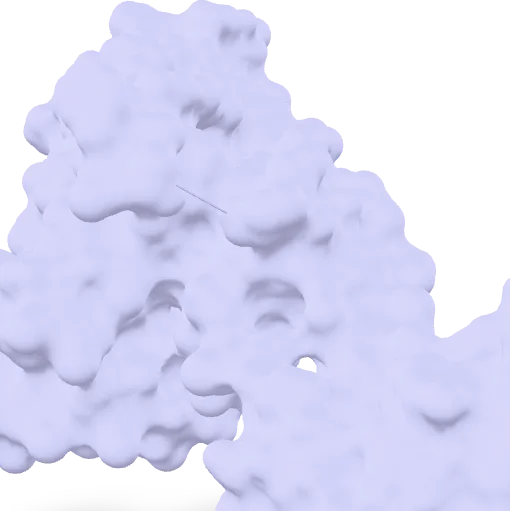
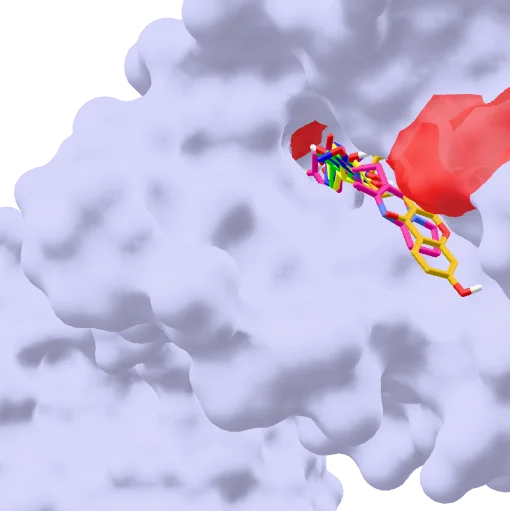
Add files via upload

diff --git a/index.html b/index.html
@@ -9,7 +9,7 @@
   </head>
   <body>
     <!-- <model-viewer> HTML element -->
-    <model-viewer src="ImageToStl.com_dopa.gltf" ar ar-modes="webxr scene-viewer quick-look" camera-controls tone-mapping="neutral" poster="poster.webp" shadow-intensity="1">
+    <model-viewer src="ImageToStl.com_dopa.gltf" ar ar-modes="webxr scene-viewer quick-look" camera-controls tone-mapping="neutral" poster="poster.webp" shadow-intensity="1" camera-orbit="-177.5deg 99.85deg 112.4m" field-of-view="14.73deg">
       <div class="progress-bar hide" slot="progress-bar">
           <div class="update-bar"></div>
       </div>
